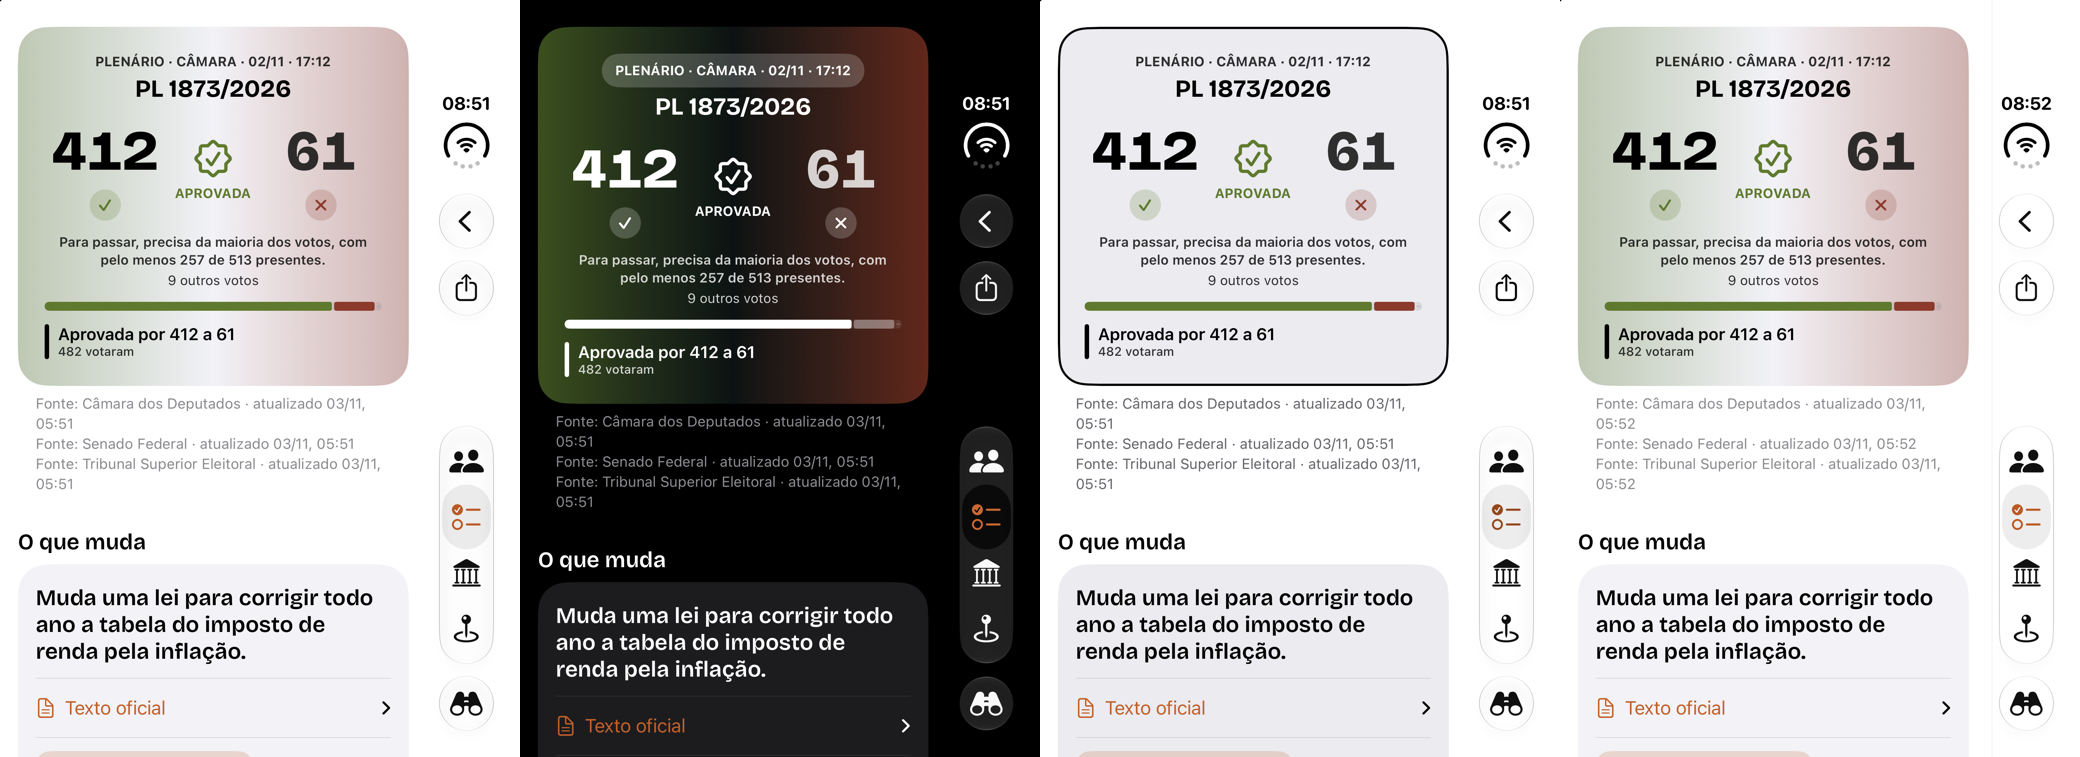
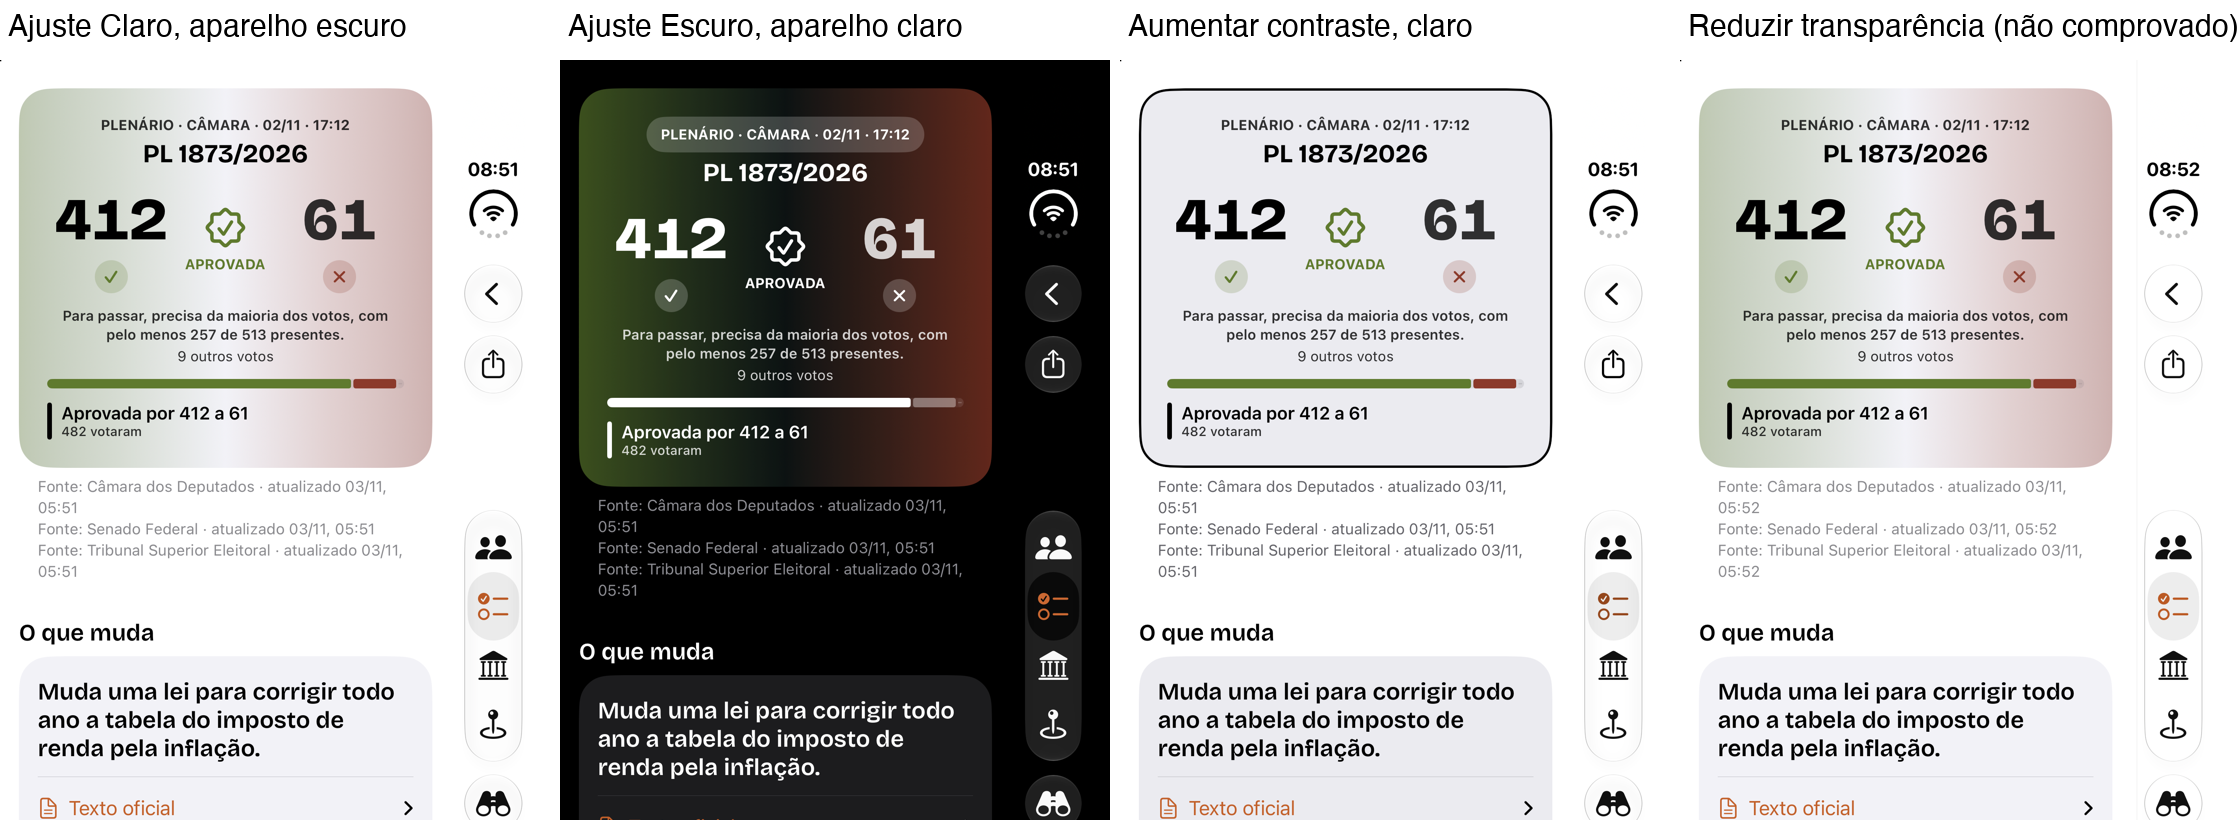
Answer the review of the light cards
Compare the dark mode against the previous build, test the portrait check, keep
every column color in the comparison, and tighten the QA.

Canvas: spdd/prompt/FSC-016-202611021923-[Feat]-light-cards-and-portraits.md

diff --git a/FiscalKit/Sources/FiscalDesignSystem/Components/HeroSurface.swift b/FiscalKit/Sources/FiscalDesignSystem/Components/HeroSurface.swift
@@ -10,6 +10,12 @@ public enum HeroTone: Hashable, Sendable {
         case .colors(let colors): colors
         }
     }
+
+    public var lightStops: [Color] {
+        let soft = tints.map { $0.opacity(.opacitySoft) }
+        guard soft.count <= 2 else { return soft }
+        return [soft.first ?? .clear, .plainRow, soft.last ?? .clear]
+    }
 }
 
 extension Color {
@@ -69,12 +75,8 @@ public struct HeroSurface<Dark: View>: View {
                         .strokeBorder(.primary, lineWidth: .spaceHairline)
                 }
         } else {
-            let tints = tone.tints
             LinearGradient(
-                colors: [
-                    (tints.first ?? .clear).opacity(.opacitySoft), Color.plainRow,
-                    (tints.last ?? .clear).opacity(.opacitySoft),
-                ], startPoint: .leading, endPoint: .trailing
+                colors: tone.lightStops, startPoint: .leading, endPoint: .trailing
             )
             .background(Color.plainRow)
         }

diff --git a/FiscalKit/Tests/FiscalDesignSystemTests/HeroSurfaceTests.swift b/FiscalKit/Tests/FiscalDesignSystemTests/HeroSurfaceTests.swift
@@ -76,6 +76,12 @@ struct HeroSurfaceTests {
         #expect(HeroTone.colors([.red]).tints == [.red])
     }
 
+    @Test func twoSidesKeepANeutralCenterAndMoreColumnsKeepTheirColors() {
+        #expect(HeroTone.vote.lightStops.count == 3)
+        #expect(HeroTone.colors([.red]).lightStops.count == 3)
+        #expect(HeroTone.colors([.red, .green, .blue, .orange]).lightStops.count == 4)
+    }
+
     @Test func theInkOnlyChangesInLightMode() {
         let dark = HeroInk(.dark)
         let light = HeroInk(.light)

diff --git a/scripts/portrait-check-test.py b/scripts/portrait-check-test.py
@@ -1,0 +1,42 @@
+#!/usr/bin/env python3
+import contextlib
+import importlib.util
+import io
+import os
+import sys
+import unittest
+
+ROOT = os.path.dirname(os.path.abspath(__file__))
+SPEC = importlib.util.spec_from_file_location("portrait_check", os.path.join(ROOT, "portrait-check.py"))
+check = importlib.util.module_from_spec(SPEC)
+SPEC.loader.exec_module(check)
+
+
+class PortraitCheckTests(unittest.TestCase):
+    def run_check(self, described, people, published=False):
+        check.traits = lambda: described
+        check.fixture = lambda: people
+        check.published = lambda: people
+        sys.argv = ["portrait-check.py"] + (["--published"] if published else [])
+        out, err = io.StringIO(), io.StringIO()
+        with contextlib.redirect_stdout(out), contextlib.redirect_stderr(err):
+            code = check.main()
+        return code, out.getvalue(), err.getvalue()
+
+    def test_a_different_name_fails_and_points_at_the_slug(self):
+        code, _, err = self.run_check({"ana": "Ana Souza"}, {"ana": "Bia Lima"})
+        self.assertEqual(code, 1)
+        self.assertIn("ana: Bia Lima in the data, Ana Souza in the traits", err)
+
+    def test_the_same_name_with_other_accents_passes(self):
+        code, out, _ = self.run_check({"ze": "José Lima"}, {"ze": "JOSE LIMA"})
+        self.assertEqual(code, 0)
+        self.assertIn("1 people", out)
+
+    def test_missing_traits_only_fail_on_the_published_files(self):
+        self.assertEqual(self.run_check({}, {"ana": "Ana"})[0], 0)
+        self.assertEqual(self.run_check({}, {"ana": "Ana"}, published=True)[0], 1)
+
+
+if __name__ == "__main__":
+    unittest.main(verbosity=0)

diff --git a/docs/evidence/FSC-016/qa.md b/docs/evidence/FSC-016/qa.md
@@ -13,23 +13,23 @@
 | 3 | Arthur Henrique em Região | Abrir com dados publicados | passou | [Captura](portrait-mayor.png). Nos dados de teste, o prefeito tem outro identificador e continua neutro |
 | 4 | Sem traços | Modelo | passou em teste | `findsTraitsByTheSlugAlone`, `drawsThePersonWithThePartyTheDataBrings` |
 | 5 | As 2.356 pessoas publicadas | `scripts/portrait-check.py --published` | passou | 2.356 lidas, 0 sem traços, 0 problemas, em 03/11/2026. Os dados publicados são de 28/10 |
-| 6 | Identificador com outro nome | Trocar um nome em memória e rodar o script | passou | O script saiu com erro 1 e apontou o identificador e os dois nomes. Sem teste automático |
+| 6 | Identificador com outro nome | Teste do script | passou | `scripts/portrait-check-test.py`, no `verify --full` |
 | 7 | Placar claro | Abrir | passou | [Claro e escuro](appearance-and-contrast.png), [captura](vote-light.png), iPhone |
-| 8 | Placar escuro | Abrir | passou em parte | [Captura](vote-dark.png). Sem comparação pixel a pixel; os tokens e o fundo são os de antes |
+| 8 | Placar escuro | Comparar o build de `efaae65` com o novo | passou | [Antes e depois](dark-before-after.png): nominal e simbólica sem nenhum pixel diferente no cartão |
 | 9 | Cartões coloridos iguais | `git diff` contra a `development` | passou | Nenhum desses arquivos no diff; [político](cards-two-modes.png) no simulador; iPhone |
 | 10 | "Na sua região agora" | Abrir Região | passou em parte | O cartão não apareceu nos dados de teste. Só o código e a versão instalada no iPhone, sem confirmação específica desse cartão |
 | 11 | Conclusão da investigação | Abrir uma investigação no modo claro | passou | [Captura](cards-two-modes.png) |
-| 12 | Comparar | Abrir | passou | `testTheScoreboardAndTheComparisonOpenInTheCurrentMode`, [captura](hero-compare.png), [dois modos](cards-two-modes.png) |
-| 13 | Modo escuro dos 4 cartões | Abrir | passou em parte | Placar e comparar vistos no escuro. Conclusão e "Na sua região agora" só no código |
-| 14 | Ajuste de Aparência | Forçar Claro em aparelho escuro e Escuro em aparelho claro | passou | [Captura](appearance-and-contrast.png), no placar |
+| 12 | Comparar | Abrir | passou | `testTheScoreboardAndTheComparisonOpenInTheCurrentMode`, [captura](hero-compare.png), [dois modos](cards-two-modes.png). Com mais de duas colunas: `twoSidesKeepANeutralCenterAndMoreColumnsKeepTheirColors`, sem ver na tela |
+| 13 | Modo escuro dos 4 cartões | Comparar builds | passou em parte | Placar: igual. Comparar: a única diferença é o rosto de Kim Kataguiri, antes neutro e agora desenhado ([antes e depois](dark-before-after.png)). Conclusão e "Na sua região agora" só lidos no código |
+| 14 | Ajuste de Aparência | Forçar pelo valor salvo: Claro em aparelho escuro e Escuro em aparelho claro | passou em parte | [Capturas com legenda](appearance-and-contrast.png), no placar. A chave foi passada no lançamento, sem usar a tela de Ajustes |
 | 15 | Contraste | Modelo | passou em teste | `everyPartyColorKeepsTheTextReadableInLightMode`, com todas as cores da paleta, em cálculo sobre os valores do sistema |
 | 16 | Aumentar contraste | Ligar no simulador | passou | [Captura](appearance-and-contrast.png): cinza e contorno, no placar |
-| 17 | Reduzir transparência | Ligar por `defaults` | passou em parte | A superfície não usa material. A captura ficou igual, mas não confirmei que o ajuste estava ativo |
+| 17 | Reduzir transparência | Ligar por `defaults` | não comprovado | No código, a superfície não usa material e é opaca. A captura ficou igual, e não confirmei que o ajuste estava ativo |
 | 18 | Cartazes | `git diff` e testes | passou em parte | `FeatureShare` e `PartyBackdrop` fora do diff, testes passando. O retrato segue a regra nova neles, e nenhum cartaz foi comparado na tela |
 | 19 | Widget e Atividade ao Vivo | `git diff` | passou em parte | `FiscalWidgets` fora do diff. Não abertos |
 | 20 | Maior tamanho de texto | Abrir comparar | passou em parte | `testTheComparisonIsReadableAtTheLargestTextSize`, [captura](hero-compare-largest.png), que só confere se os nomes existem. Placar coberto na `FSC-015` |
 
-**Verificação:** `scripts/verify.sh --full` passou, e `scripts/ui-test.sh` passou nos 25 testes.
+**Verificação:** `scripts/verify.sh --full` passou, e `scripts/ui-test.sh` passou nos 25 testes. A proteção contra rosto errado é o `portrait-check`: sobre os dados de teste a cada verificação completa e, sobre os publicados, manual, antes de versão e depois de carga.
 
 **Não visto:** Mac, iPad, Duo aberto e VoiceOver.
 

diff --git a/spdd/review/FSC-016-202611031000-[Review]-light-cards-and-portraits.md b/spdd/review/FSC-016-202611031000-[Review]-light-cards-and-portraits.md
@@ -1,0 +1,29 @@
+# Revisão da FSC-016: cartões no modo claro e bonequinho de todos
+
+- **Canvas:** [FSC-016](../prompt/FSC-016-202611021923-[Feat]-light-cards-and-portraits.md)
+- **Intervalo revisado:** `efaae65..37b543c`, numa rodada só, com o `spec-reviewer` e o painel de interface e código.
+- **Veredito do canvas:** Needs Rework (2 críticos, 3 importantes, 1 informativo). **Veredito do painel:** aprovado, sem bloqueador, com 1 "deveria" e 6 detalhes.
+- **Limite:** os revisores só leram o código; não rodaram build nem testes.
+
+## Achados do canvas
+
+| Severidade | Onde | Achado | O que foi feito |
+| --- | --- | --- | --- |
+| crítica | Safeguard "Modo escuro igual" | Faltava a captura de comparação | Comparados os builds de `efaae65` e o novo: placar sem pixel diferente; comparar difere só no rosto corrigido. Conclusão e "Na sua região agora" seguem só lidos no código, declarado no QA |
+| crítica | Cenário 6 | Sem prova automática | `scripts/portrait-check-test.py`, no `verify --full` |
+| importante | `HeroSurface` | Com mais de duas colunas, a do meio perdia a cor | `HeroTone.lightStops`, com teste |
+| importante | QA 14 e 17 | Afirmavam além da evidência | Capturas com legenda; 14 "em parte" e 17 "não comprovado" |
+| importante | `spdd/README.md` | Atualizar no fechamento | No fechamento |
+| informativa | Análise | Fala nos 16 cartões da primeira leitura | Mantida como histórico; o alcance está no canvas e no ADR |
+
+## Achados do painel
+
+| Severidade | Onde | Achado | Decisão |
+| --- | --- | --- | --- |
+| deveria | `PortraitLibrary.swift:76` | O script é a única defesa contra rosto errado, e o modo publicado é manual | Registrado no ADR 0025 e na validação; rodado antes deste PR |
+| detalhe | `HeroCardsTests.swift:20` | Não falha se o preto voltar | Mantido; cobertura visual, declarada no QA |
+| detalhe | `VoteHeroSection.swift:50` | Texto simples no claro e chip no escuro | Mantido, escolha do usuário; VoiceOver não usado |
+| detalhe | `VoteHeroSection.swift:90` | Regra do "Não" no ponto de uso | Mantido |
+| detalhe | `HeroSurface.swift:50` | `dimmed` e `secondary` iguais no claro | Mantido |
+| detalhe | `HeroSurface.swift:70` | Escuro com Aumentar contraste não conferido | Fora do canvas |
+| detalhe | `HeroSurfaceTests.swift:58` | Contraste com valores copiados do sistema | Declarado no QA |

diff --git a/spdd/README.md b/spdd/README.md
@@ -35,6 +35,6 @@ No shell, ponha esses caminhos entre aspas: o zsh trata `[...]` como padrão de 
 | `FSC-013` | [Feed como primeira aba e a aba Região](prompt/FSC-013-202611012300-[Feat]-feed-first-tab-and-region.md) | entregue | `feature/feed` | [#11](https://github.com/byescaleira/fiscal/pull/11) |
 | `FSC-014` | [Nova página do político e compartilhar um item](prompt/FSC-014-202611020300-[Feat]-politician-page-and-share-an-item.md) | entregue | `feature/politician-page` | [#12](https://github.com/byescaleira/fiscal/pull/12) |
 | `FSC-015` | [Barra do topo, votações, região e ícones das abas](prompt/FSC-015-202611021500-[Feat]-sticky-bar-votes-region-tabs.md) | entregue | `feature/sticky-bar-and-screens` | [#13](https://github.com/byescaleira/fiscal/pull/13) |
-| `FSC-016` | [Cartões no modo claro e bonequinho de todos](prompt/FSC-016-202611021923-[Feat]-light-cards-and-portraits.md) | em andamento | `feature/light-cards-and-portraits` | — |
+| `FSC-016` | [Cartões no modo claro e bonequinho de todos](prompt/FSC-016-202611021923-[Feat]-light-cards-and-portraits.md) | em revisão | `feature/light-cards-and-portraits` | — |
 
 As capacidades que ainda vivem em guias de recurso (atualização obrigatória em [force-update.md](../docs/force-update.md), site e Fiscal na Web em [web.md](../docs/web.md), admin e flags em [admin.md](../docs/admin.md)) ganham um canvas `[Codify]` na primeira mudança da área.

diff --git a/docs/adr/0025-portrait-by-slug-and-hero-cards-follow-the-mode.md b/docs/adr/0025-portrait-by-slug-and-hero-cards-follow-the-mode.md
@@ -18,7 +18,7 @@ O usuário viu políticos que assumem em 2027 com o rosto genérico, como Eduard
 ## Consequências
 
 - Uma troca de partido não apaga mais o rosto de ninguém.
-- Um identificador reaproveitado para outra pessoa mostraria o rosto errado se ninguém conferisse; o script existe por isso.
+- Um identificador reaproveitado para outra pessoa mostraria o rosto errado se ninguém conferisse. O script substitui a exigência de partido igual, e o modo `--published` é manual: roda antes de cada versão e depois de cada carga.
 - Um contraste por superfície entra nos testes, com todas as cores de partido.
 - O partido divergente entre os arquivos continua visível até uma mudança separada no servidor.
 
